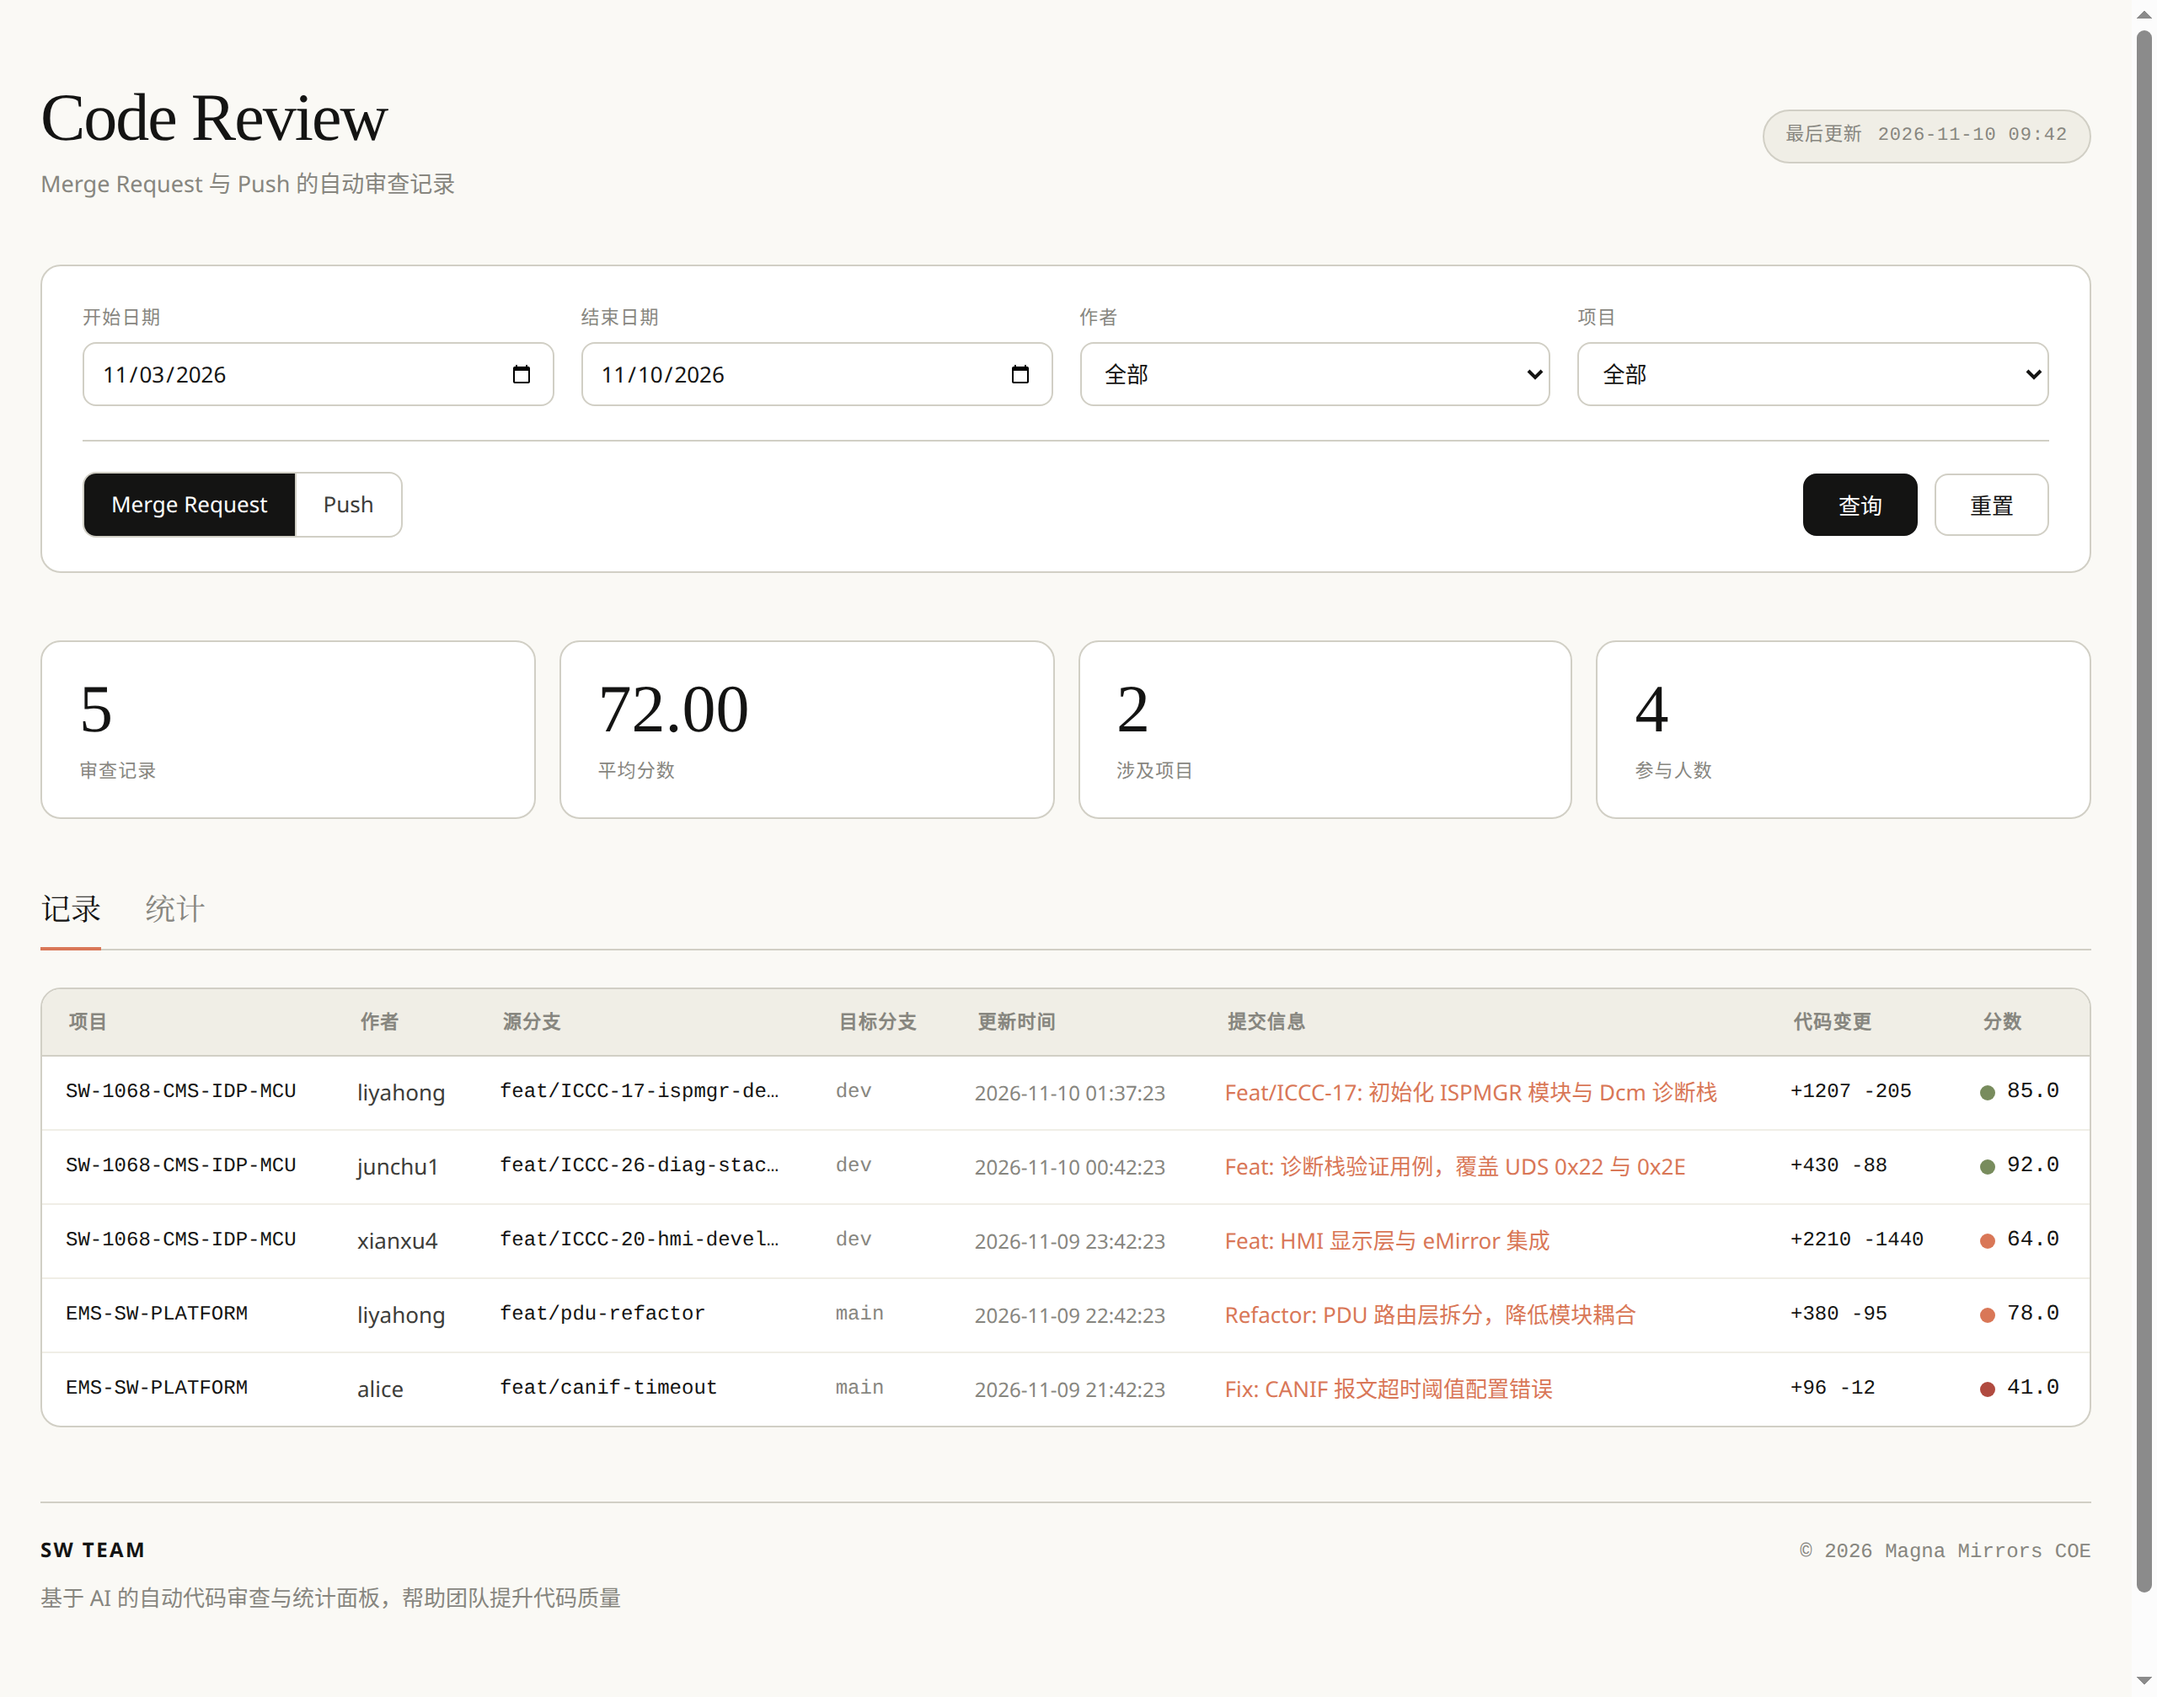
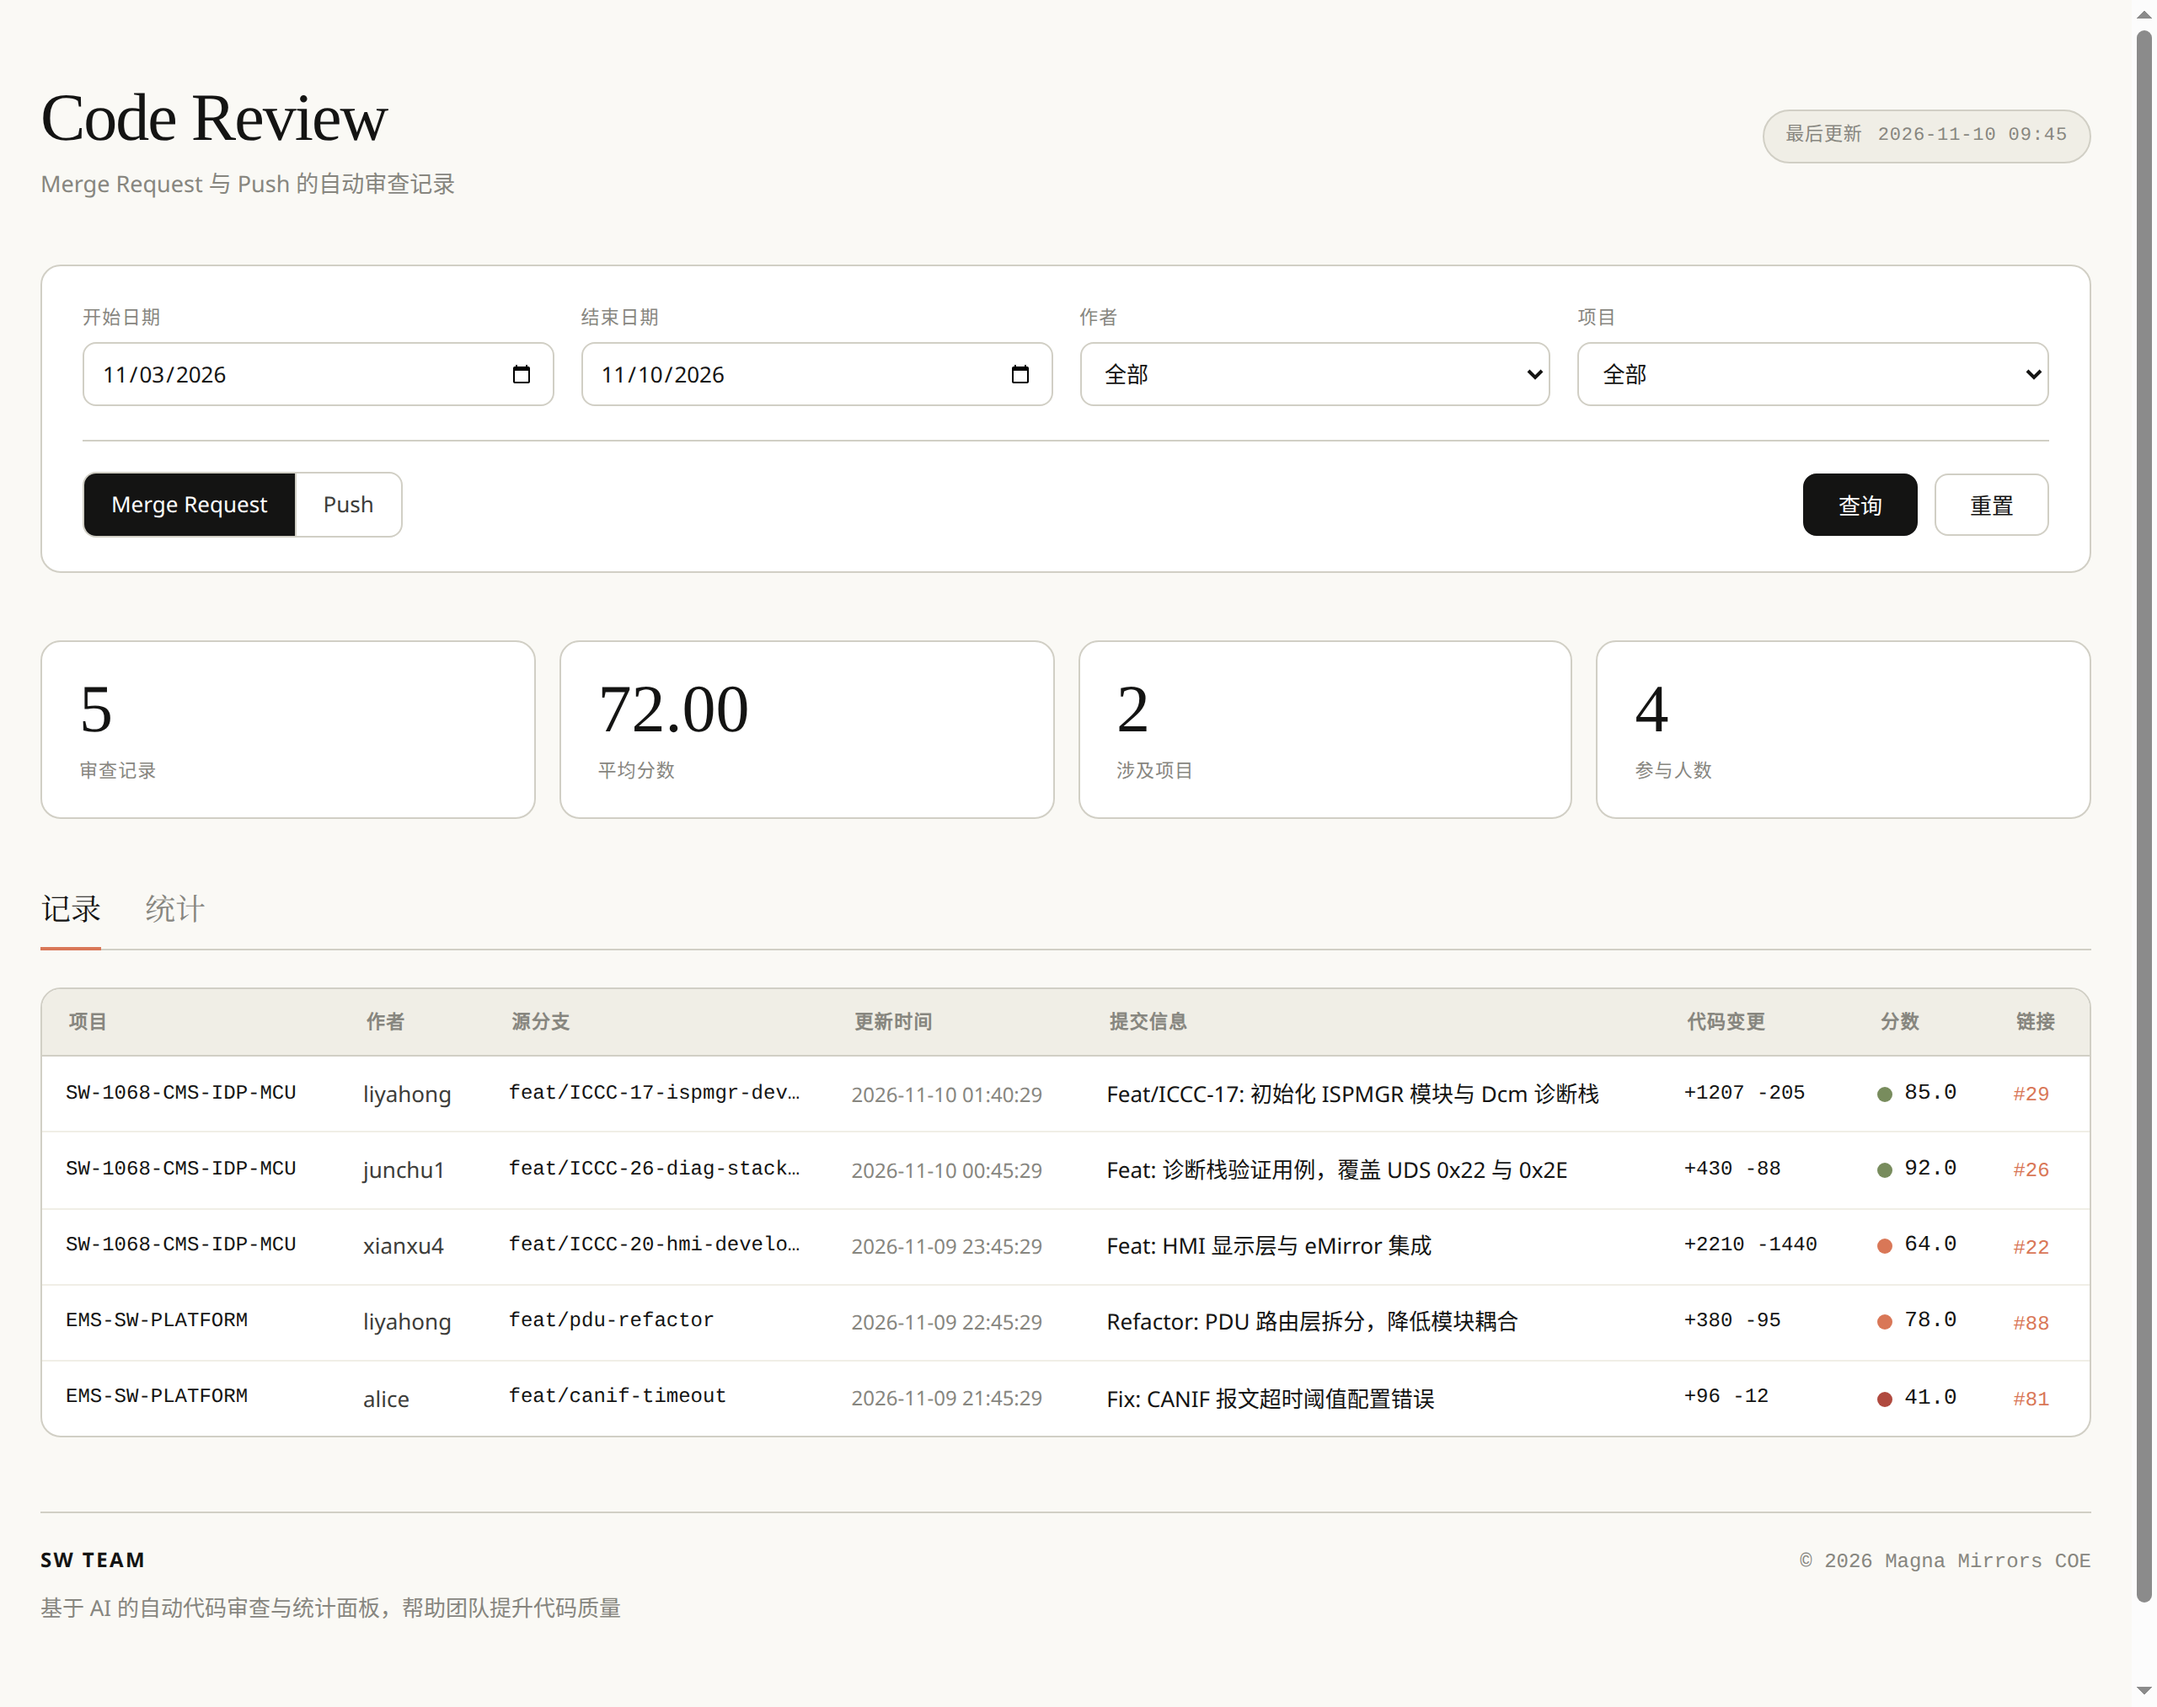
feat: drop the target branch column and add a pull request link column

diff --git a/web/app.js b/web/app.js
@@ -73,13 +73,13 @@ function switchTab(tab) {
 // 按审查类型切换表头
 function applyTableHeaders() {
     const branchHeader = document.getElementById('branchHeader');
-    const targetHeader = document.getElementById('targetBranchHeader');
+    const urlHeader = document.getElementById('urlHeader');
     if (currentReviewType === 'push') {
         branchHeader.textContent = '分支';
-        targetHeader.style.display = 'none';
+        urlHeader.style.display = 'none';
     } else {
         branchHeader.textContent = '源分支';
-        targetHeader.style.display = '';
+        urlHeader.style.display = '';
     }
 }
 
@@ -181,30 +181,24 @@ function renderTable(data) {
         const level = score >= 80 ? 'good' : (score >= 60 ? 'mid' : 'bad');
 
         const sourceBranch = item.source_branch || item.branch || '';
-        const targetBranch = item.target_branch || '';
 
         let row = `
             <tr>
                 <td class="mono nowrap">${escapeHtml(item.project_name || '')}</td>
                 <td class="author nowrap">${escapeHtml(item.author || '')}</td>
                 <td class="mono branch" title="${escapeHtml(sourceBranch)}">${escapeHtml(sourceBranch)}</td>
-        `;
-
-        if (currentReviewType === 'mr') {
-            row += `<td class="mono muted branch" title="${escapeHtml(targetBranch)}">${escapeHtml(targetBranch)}</td>`;
-        }
-
-        const commitText = escapeHtml(item.commit_messages || '');
-        const commitCell = (currentReviewType === 'mr' && item.url)
-            ? `<a href="${escapeHtml(item.url)}" target="_blank" rel="noopener" class="commit-link" title="${commitText}">${commitText}</a>`
-            : `<span title="${commitText}">${commitText}</span>`;
-
-        row += `
                 <td class="muted nowrap">${escapeHtml(item.updated_at || '')}</td>
-                <td class="commit">${commitCell}</td>
+                <td class="commit" title="${escapeHtml(item.commit_messages || '')}">${escapeHtml(item.commit_messages || '')}</td>
                 <td class="mono nowrap">${escapeHtml(item.delta || '')}</td>
                 <td class="nowrap"><span class="score"><span class="dot ${level}"></span>${score.toFixed(1)}</span></td>
         `;
+
+        if (currentReviewType === 'mr') {
+            const url = item.url || '';
+            row += url
+                ? `<td class="nowrap"><a href="${escapeHtml(url)}" target="_blank" rel="noopener" class="pr-link">${prLabel(url)}</a></td>`
+                : '<td></td>';
+        }
 
         row += '</tr>';
         return row;
@@ -346,6 +340,23 @@ function resetFilters() {
     applyTableHeaders();
 
     loadFilterOptions().then(() => loadData());
+}
+
+// 从 PR URL 里提取编号，各平台路径都兼容：
+//   Bitbucket  .../pull-requests/29/overview
+//   GitHub     .../pull/29
+//   GitLab     .../merge_requests/29
+//   Gitea      .../pulls/29
+function extractPrNumber(url) {
+    if (!url) return null;
+    const match = url.match(/\/(\d+)(?:\/[^/?#]*)?(?:[?#]|$)/);
+    return match ? match[1] : null;
+}
+
+// 链接列的显示文本
+function prLabel(url) {
+    const number = extractPrNumber(url);
+    return number ? `#${number}` : '查看 →';
 }
 
 // HTML 转义

diff --git a/web/index.html b/web/index.html
@@ -333,10 +333,16 @@ td.muted { color: var(--gray-500); font-size: 12px; }
 td.author { color: var(--gray-700); }
 td.commit { color: var(--slate); max-width: 320px; overflow: hidden; text-overflow: ellipsis; white-space: nowrap; }
 
-/* 提交信息即 PR 身份，链接挂在这里，不另开一列 */
-.commit-link { color: var(--clay); text-decoration: none; border-bottom: 1px dotted transparent; }
-.commit-link:hover { border-bottom-color: var(--clay); }
-td.commit span { color: var(--slate); }
+/* PR 链接列：编号用 mono，像报刊的交叉引用 */
+.pr-link {
+  font-family: var(--mono);
+  font-size: 12px;
+  color: var(--clay);
+  text-decoration: none;
+  border-bottom: 1px dotted transparent;
+  white-space: nowrap;
+}
+.pr-link:hover { border-bottom-color: var(--clay); }
 
 /* 这些列不折行：折行会让一眼扫读变成逐行确认 */
 td.nowrap { white-space: nowrap; }
@@ -590,11 +596,11 @@ td.branch { max-width: 190px; overflow: hidden; text-overflow: ellipsis; white-s
               <th>项目</th>
               <th>作者</th>
               <th id="branchHeader">源分支</th>
-              <th id="targetBranchHeader">目标分支</th>
               <th>更新时间</th>
               <th>提交信息</th>
               <th>代码变更</th>
               <th>分数</th>
+              <th id="urlHeader">链接</th>
             </tr>
           </thead>
           <tbody id="dataTableBody">
